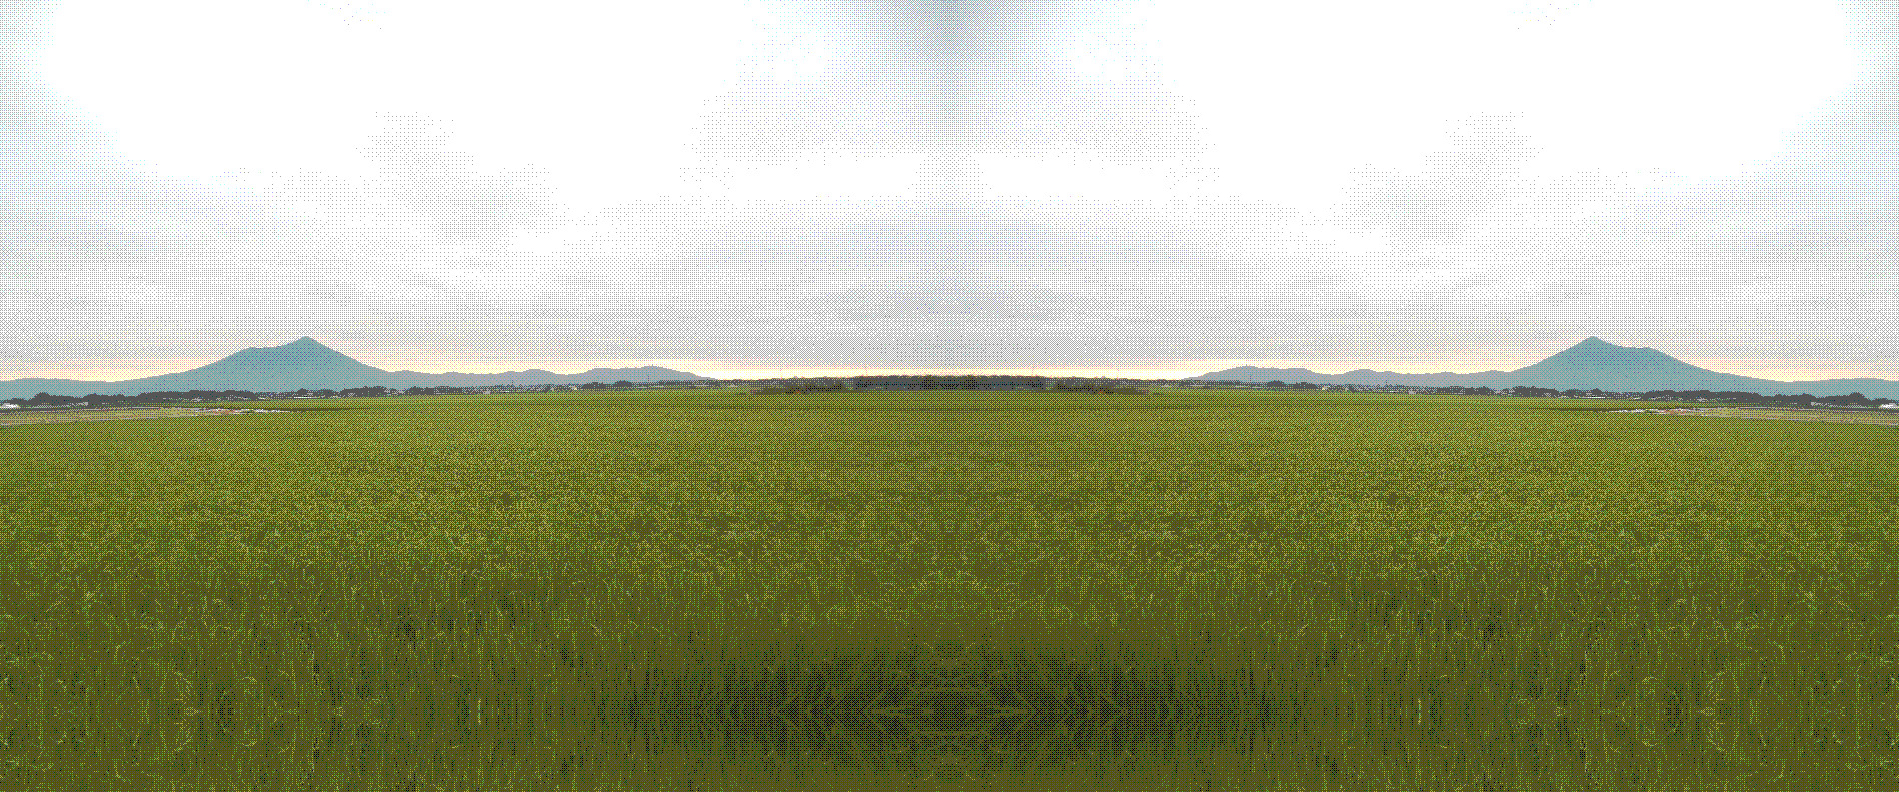
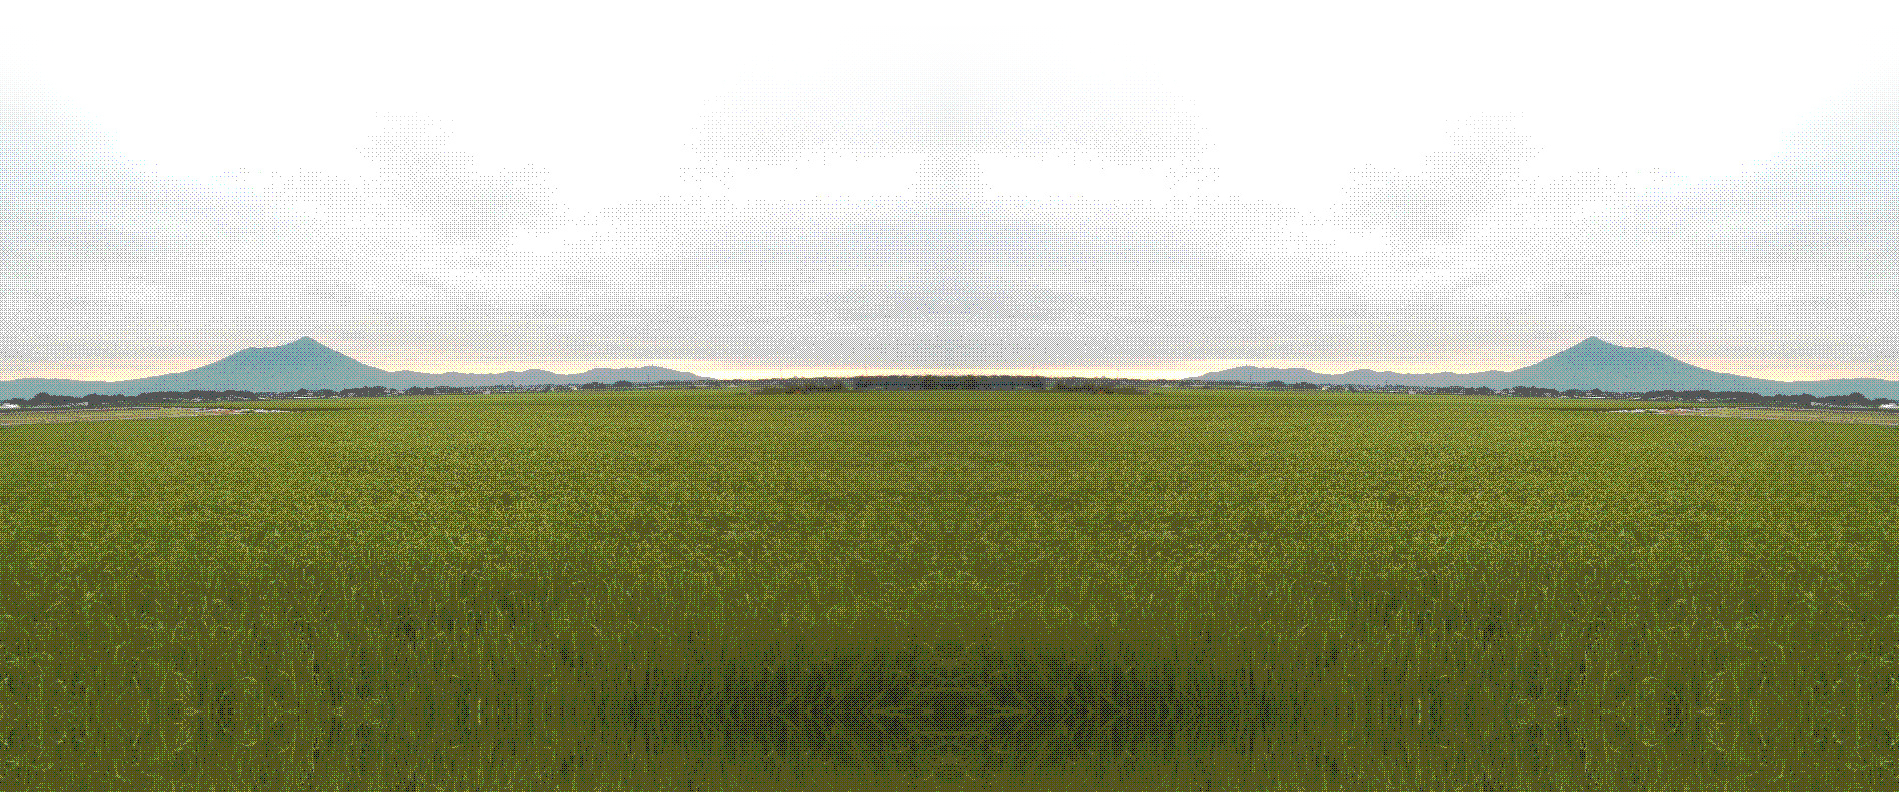
.

Changed region(s): [[0.435, 0.0, 0.5903, 0.1818], [0.9631, 0.0, 1.0, 0.1818], [0.0, 0.0, 0.0311, 0.1818]]

diff --git a/ui/css.css b/ui/css.css
@@ -3,7 +3,7 @@
 @font-face {font-family: "assimilation"; src: url("../fonts/assimilation.TTF");}
 @font-face {font-family: hack; src: url("../fonts/hack-regular.woff") format("woff");}
 :root{
-  --htmlBG:url('backgrounds/fax_brcde.png') no-repeat bottom 10px left 15px, url("backgrounds/shimotsumafield.jpg") no-repeat;
+  --htmlBG:url('backgrounds/fax_brcde.png') no-repeat bottom 10px left 15px, url("backgrounds/shimotsumafield.jpg") repeat-x bottom;
   --asideBackground:url('backgrounds/whitedotted.jpg');
   --mainBackground:#bfa6ac;
   --singleMainBackground:url('backgrounds/whitedotted.jpg');
@@ -33,7 +33,6 @@ html{scroll-behavior: smooth; scrollbar-color: var(--bodyArticleH1) #ffffff; scr
 body{
   background: var(--htmlBG);
   background-size:auto, cover;
-  background-attachment:fixed;
   min-width:789px;
   margin: 0 auto;
 }

diff --git a/log/css.css b/log/css.css
@@ -1,3 +1,3 @@
 body{
-  background:url("../ui/backgrounds/monchhichi.png") no-repeat top left, url("../ui/backgrounds/animateshelf.png") no-repeat top right, url("../ui/backgrounds/mingrid.png") repeat !important;
+  background: url("../ui/backgrounds/shimotsumaflowers.jpg") repeat-x bottom !important; background-attachment:fixed !important;
 }

diff --git a/shrines.html b/shrines.html
@@ -11,6 +11,11 @@
 <script src="log/js.js"></script>
 <link rel="stylesheet" href="ui/css.css">
 <meta name="author" content="tkr">
+<style>
+body{
+  background: url("ui/backgrounds/shimotsumaflowers.jpg") repeat-x bottom !important; background-attachment:fixed !important;
+}
+</style>
 </head>
 <body id="body">
 <header id="header">

diff --git a/music/css.css b/music/css.css
@@ -1,0 +1,3 @@
+body{
+  background: url("../ui/backgrounds/shimotsumaflowers.jpg") repeat-x bottom !important; background-attachment:fixed !important;
+}
